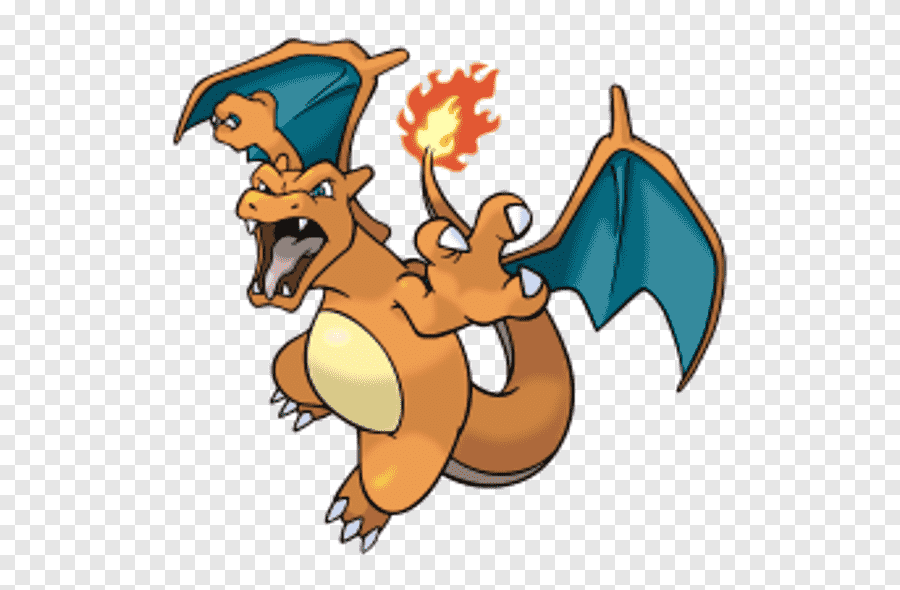
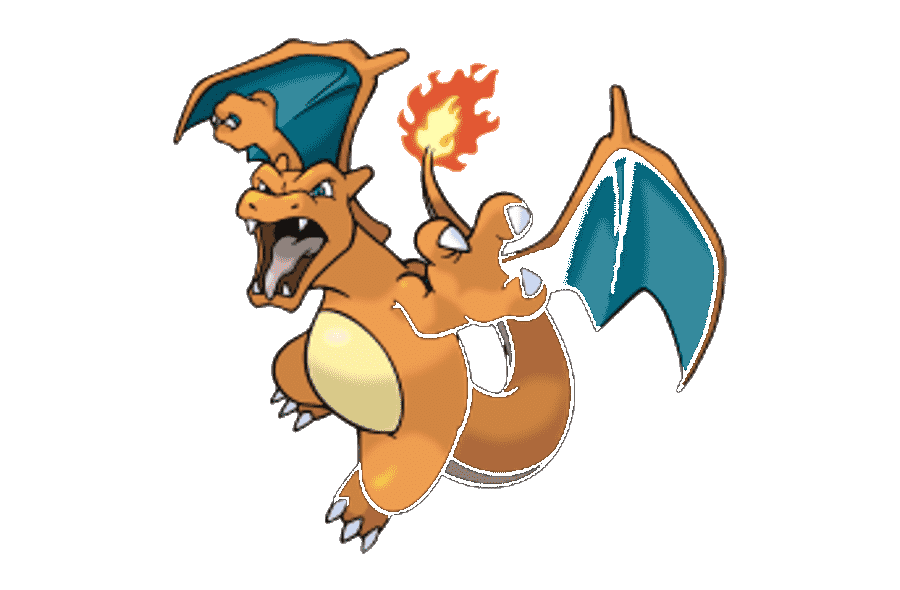
added images

diff --git a/css/index.min.css b/css/index.min.css
@@ -1,6 +1,1 @@
-<<<<<<< HEAD
-@font-face{font-family:mainPokeFont;src:url("../fonts/Pokemon Solid.ttf")}@font-face{font-family:subPokeFont;src:url("../fonts/Pokemon Classic.ttf")}*{padding:0;margin:0}body{background-color:orange}.header h1{text-align:center;font-size:5rem;font-family:mainPokeFont;color:whitesmoke;letter-spacing:10px}
-/*# sourceMappingURL=index.min.css.map */
-=======
-@font-face{font-family:mainPokeFont;src:url("../fonts/Pokemon Solid.ttf")}@font-face{font-family:subPokeFont;src:url("../fonts/Pokemon Classic.ttf")}*{padding:0;margin:0}body{background-color:orange}.header h1{text-align:center;font-size:5rem;font-family:mainPokeFont;color:#ff0;letter-spacing:10px}/*# sourceMappingURL=index.min.css.map */
->>>>>>> 68b2f34998b9f25f5d7432baeb0e435785304f47
+@font-face{font-family:mainPokeFont;src:url("../fonts/Pokemon Solid.ttf")}@font-face{font-family:subPokeFont;src:url("../fonts/Pokemon Classic.ttf")}*{padding:0;margin:0}body{background-color:orange}body img{width:20rem;height:20rem}.header h1{text-align:center;font-size:5rem;font-family:mainPokeFont;color:#f5f5f5;letter-spacing:10px}/*# sourceMappingURL=index.min.css.map */

diff --git a/index.html b/index.html
@@ -13,7 +13,13 @@
       <div class="header">
             <h1>POKE-DEX</h1>
       </div>
-      
+
+      <div class='container'>
+            <img class="charmander" src="images/charmander2.png">
+            <img class="charmeleon" src="images/charmeleon.png">
+            <img class="charizard" src="images/charizard.png">
+      </div>
+
       <script src="index.js"></script>
 </body>
 

diff --git a/css/index.css b/css/index.css
@@ -14,6 +14,10 @@
 body {
   background-color: orange;
 }
+body img {
+  width: 20rem;
+  height: 20rem;
+}
 
 .header h1 {
   text-align: center;

diff --git a/scss/index.scss b/scss/index.scss
@@ -15,6 +15,11 @@
 
 body{ 
       background-color: orange;
+
+      img {
+            width: 20rem;
+            height: 20rem;
+      }
 }
 
 
